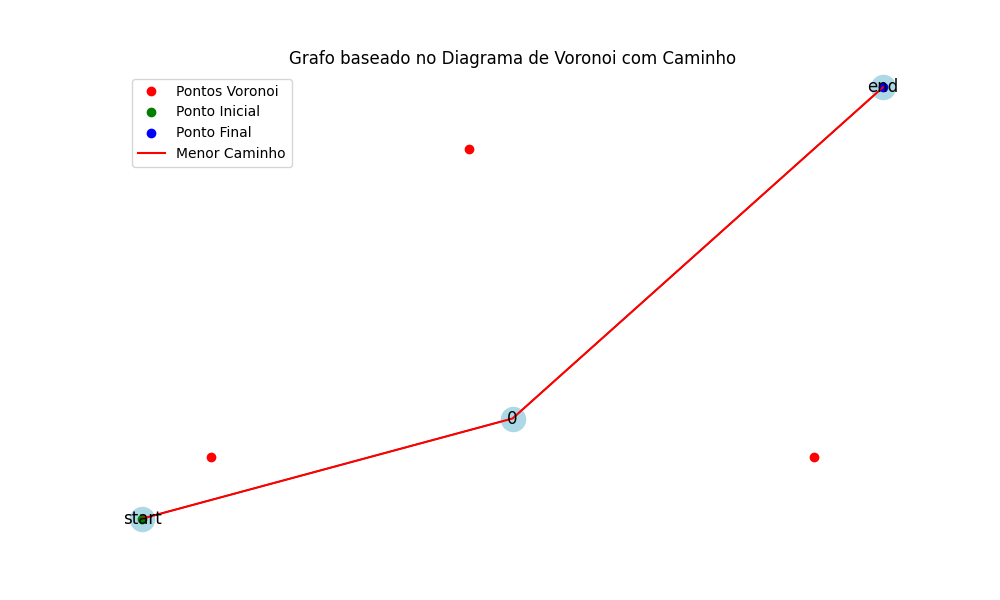
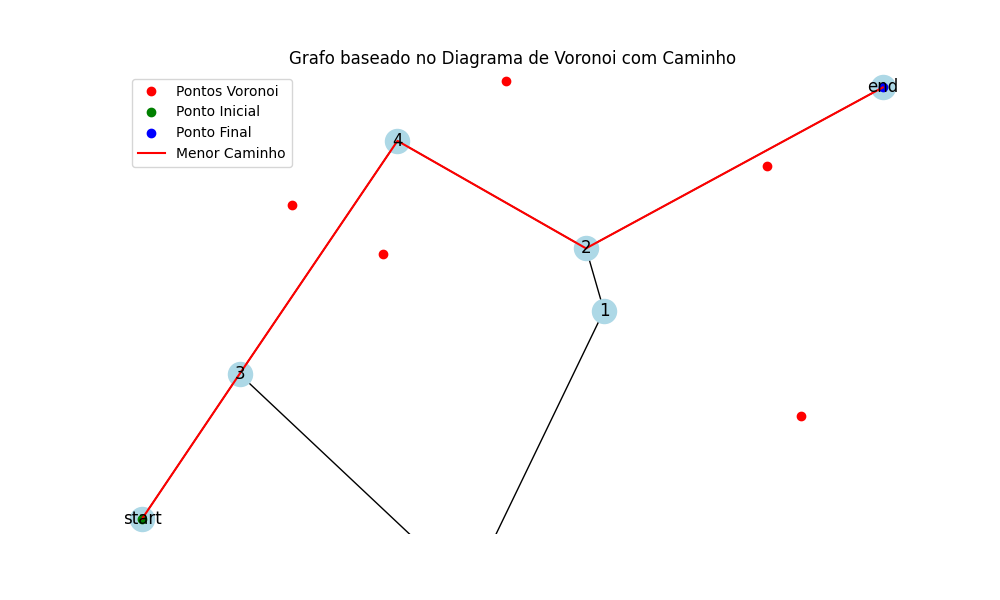
visualizaçao  paralela dos grafos
mudança calculo path, uso de busca bidirecional com dijsktra

diff --git a/motion/veronoi.py b/motion/veronoi.py
@@ -1,10 +1,10 @@
 import numpy as np
-from scipy.spatial import Voronoi
+from scipy.spatial import Voronoi, voronoi_plot_2d
 import matplotlib.pyplot as plt
 import networkx as nx
 from scipy.spatial import distance
 from utils.pose2D import Pose2D 
-
+import random
 
 #Para rodar usar o comando      python3 -m motion.veronoi
 #com o terminal na pasta        UTBots-SSL-EL-Strategy
@@ -44,18 +44,26 @@ class VoronoiGraph:
         self.graph.add_edge(point_name, closest_vertex, weight=dist_to_vertex)
         return closest_vertex
 
-    def find_shortest_path(self, start_name, end_name):
+
+    def find_shortest_path(self, start_node, end_node):
         """
-        Encontra o menor caminho entre dois pontos no grafo.
-        :param start_name: Nome do ponto inicial.
-        :param end_name: Nome do ponto final.
+        Encontra o menor caminho entre dois pontos no grafo utilizando busca bidirecional.
+        
+        :param start_node: Nome do ponto inicial.
+        :param end_node: Nome do ponto final.
         :return: Lista de pontos do menor caminho como instâncias de Pose2D.
         """
-        shortest_path = nx.shortest_path(self.graph, source=start_name, target=end_name, weight="weight")
-        return [
-            self.graph.nodes[node]["pos"] if isinstance(node, str) else Pose2D(*self.vor.vertices[node])
-            for node in shortest_path
-        ]
+        try:
+            lenght, path= nx.bidirectional_dijkstra(self.graph, source=start_node, target=end_node, weight="weight")
+            print(lenght)
+            return [
+                self.graph.nodes[node]["pos"] if isinstance(node, str) else Pose2D(*self.vor.vertices[node])
+                for node in path
+            ]
+
+        except nx.NetworkXNoPath:
+            return []
+
 
     def visualize(self, start_point, end_point, shortest_path_coords, output_file="voronoi_path_output.png"):
         """
@@ -91,20 +99,21 @@ class VoronoiGraph:
 
 if __name__ == '__main__':
     # Pontos iniciais do Voronoi
-    points = [Pose2D(500, 500), Pose2D(4000, 500), Pose2D(2000, 2500)]
+    points = []
+    for i in range(6):
+        x = random.randint(-400,4000)
+        y = random.randint(-400,4000)
+        points.append(Pose2D(x, y))
 
-    # Pontos de início e fim (fora do Voronoi)
     start_point = Pose2D(100, 100)
     end_point = Pose2D(4400, 2900)
 
-    # Cria o grafo baseado no diagrama de Voronoi
     voronoi_graph = VoronoiGraph(points)
-
-    # Adiciona os pontos de início e fim ao grafo
+    fig = voronoi_plot_2d(voronoi_graph.vor)
+    plt.savefig("diagrama_voronoi.png", dpi=100, bbox_inches='tight')
     voronoi_graph.add_point(start_point, "start")
     voronoi_graph.add_point(end_point, "end")
 
-    # Encontra o menor caminho entre os dois pontos
     shortest_path_coords = voronoi_graph.find_shortest_path("start", "end")
 
     # Exibe os pontos do caminho como Pose2D
